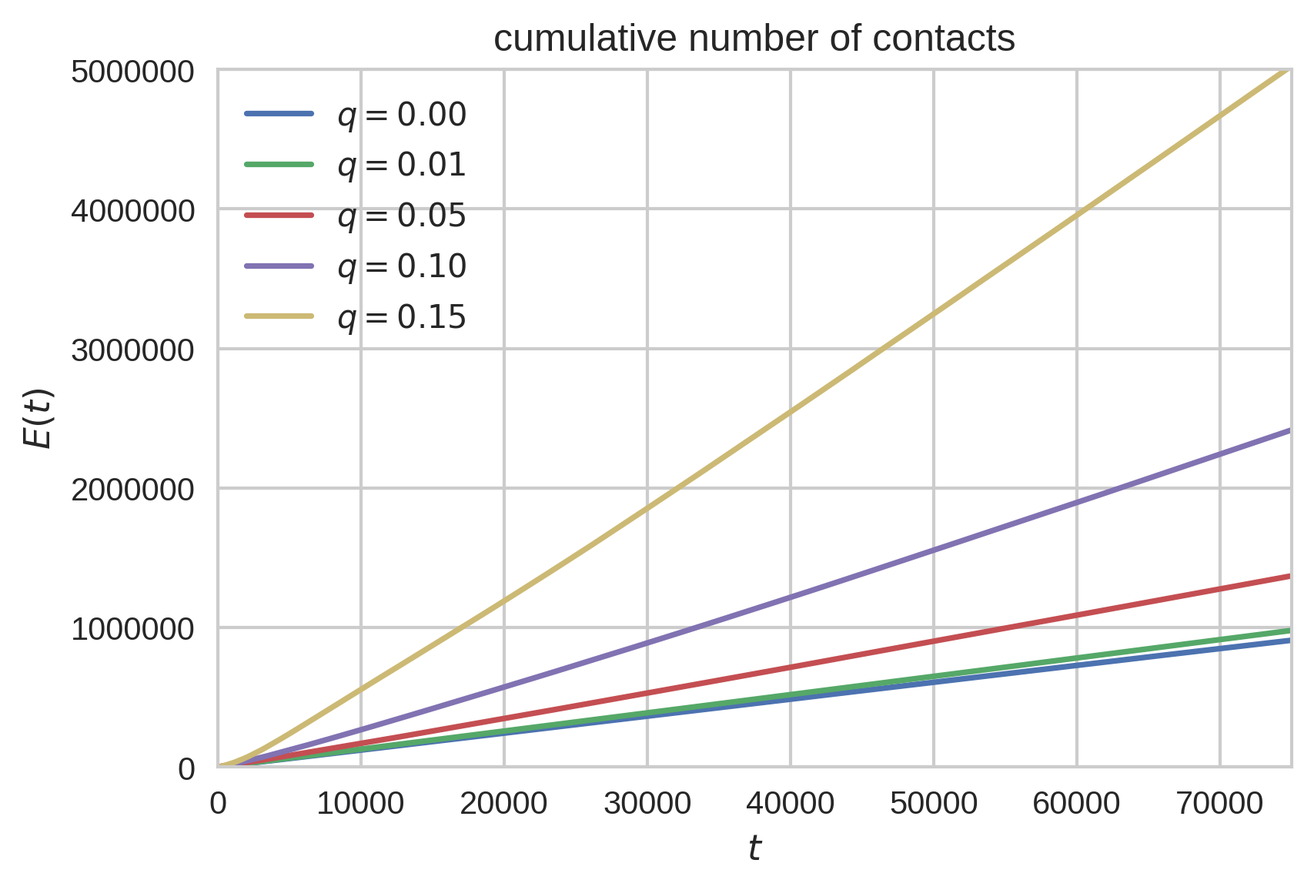
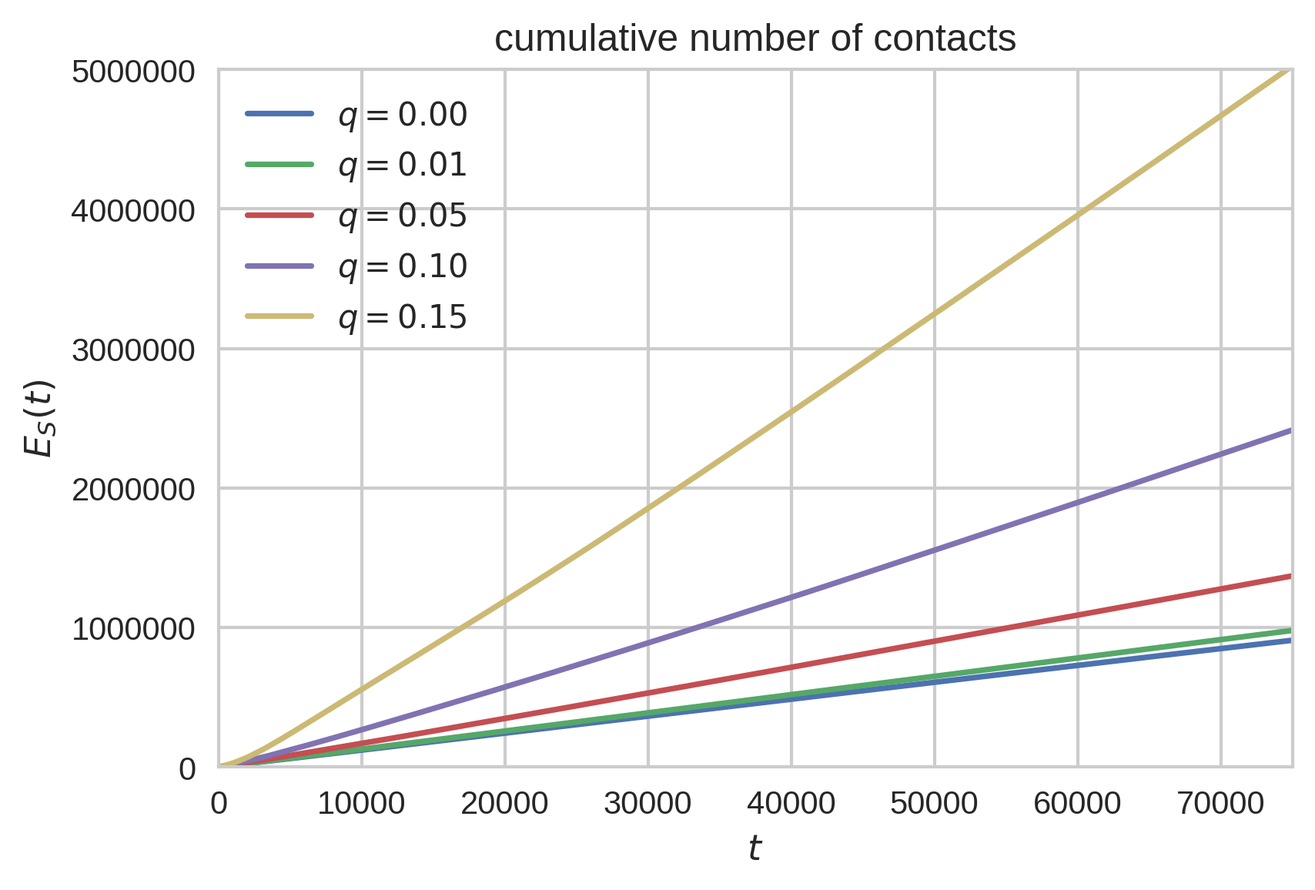
editing in the results chapter

diff --git a/results.tex b/results.tex
@@ -2,21 +2,23 @@
 \label{cha:results}
 
 
-This chapter discusses the basic findings of the analysis of the proposed peer influence model.
+This chapter discusses the basic findings of the analysis of the by us proposed peer influence model.
 All results were obtained from synthetic networks, with a fixed size of \( n = 5,000 \) nodes, which were generated over \( T = 75,000 \) iterations.
-The here presented properties of the time-varying networks were obtained by averaging the results of 40 independent runs, which is necessary due to the stochastic nature of the model.
-The model parameter responsible for the formation of the community structures are set to \( p_{\Delta} = 0.90 \) for the triadic closure probability, \( \delta = 1 \) for the link reinforcement constant, and \( p_{d} = \num{5e-05} \) for the node deletion probability for every experiment.
+The properties that we present were obtained by averaging the results of 40 independent runs, which is necessary due to the stochastic nature of the model.
+
+The model parameter responsible for the formation of the community structures was set to \( p_{\Delta} = 0.90 \) for the triadic closure probability, \( \delta = 1 \) for the link reinforcement constant, and \( p_{d} = \num{5e-05} \) for the node deletion probability for every experiment.
 Furthermore, the critical peer influence threshold was fixed to \( \theta = 0.10 \).
-This reflects the idea that only a relatively small number of active neighbors is sufficient to increase the activity of a node in a significant way.
+This reflects the idea that only a relatively small number of active neighbors is sufficient to affect the activity of a node in a significant way.
 
 The time-dependent topological properties of the integrated network, which are discussed in \cref{sec:integrated-network-properties}, are measured only for nodes that are part of the temporal network.
-This means that nodes, which were removed earlier due to the node deletion process do not influence the properties of the integrated network any more.
+This means that nodes, which were removed earlier due to the node deletion mechanism do not influence the properties of the integrated network any more.
 \Cref{sec:network-activity} contains an overview of the overall network activity with respect to different levels of peer influence.
 The effect of the peer influence mechanism on the inter-event time distribution in the network is examined in \cref{sec:inter-event-time-dists}.
 Furthermore, the distributions of the node degrees and tie strengths (i.e., the link weights) derived from the integrated networks are the subject of \cref{sec:weight-and-degree-distribution}.
 All these experiments are performed for different values for the maximum peer influence probability \( q \).
-However, the analysis performed in the last section of this chapter (\cref{sec:softmax-rescaling}) uses a fixed value for the peer influence level and discusses how different values for \( \beta \), the inverse temperature for the softmax weight rescaling, changes the peer influence effects in the network.
-The temporal networks, which are used in the experiments of the first four sections of this chapter, adopt the current average tie strength as temperature for the softmax weight rescaling.
+
+However, for the analysis performed in the last section of this chapter (\cref{sec:softmax-rescaling}) we use a fixed value for the peer influence level and discuss how different values for \( \beta \), the inverse temperature for the softmax weight rescaling, change the peer influence effects in the network.
+The generated temporal networks, which are used in the experiments of the first four sections of this chapter, adopt the current average tie strength as temperature for the softmax weight rescaling.
 Therefore, \( \beta \) is set to the to the reciprocal value of average weight in the integrated network in each iteration after the first one (i.e., \( \beta = 1 \) in the initial round to avoid division by zero, since no ties have been formed yet).
 
 
@@ -28,25 +30,27 @@ Therefore, \( \beta \) is set to the to the reciprocal value of average weight i
 \label{sec:integrated-network-properties}
 
 Not only the final integrated network of all 75,000 instantaneous networks and its properties are of great interest, but also how they evolve during the simulation.
-This allows to get a deeper understanding on how the model shapes the community structures in the network and the effects of the peer influence mechanism on it.
+This time-dependent view on the network allows us to get a deeper understanding on how the model shapes the communities and the effects of the peer influence mechanism on these structures.
 The integrated network is build in an iterative fashion to make these observations possible.
 A snapshot of the integrated network is taken after the newly formed ties are included and the weights of already established links are updated in every time step.
-Features like the average local clustering coefficient or the average weight of the ties are calculated for each of the 75,000 integrated network snapshots.
-This allows to examine how the topology and other measures change over time.
+Measures like the average local clustering coefficient or the average weight of the ties are calculated for each of the 75,000 integrated network snapshots.
+This allows us to examine how the topology and other measures change over time.
 
-The first, and most interesting, measure that can be investigated in this way is the average local clustering coefficient \( C(t) \).
-\Cref{fig:avg-local-cc-full} depicts the development of it over the course of the simulation for different levels of peer influence.
+The first, and most interesting, measure that we investigate is the average local clustering coefficient \( C(t) \).
+\Cref{fig:avg-local-cc-full} depicts the development of \( C(t) \) over the course of the simulation for different levels of peer influence.
 The graph of this function has a very distinctive pattern, which was already explained in the original work by \citet{Laurent2015}.
 The average clustering coefficient is very small in the first few hundred iterations, due to the sparsity of the integrated network.
 Almost all nodes are disconnected and the number of triangles, which have already formed is relatively small compared to the size of the network.
-However, \cref{fig:avg-local-cc-full} also shows that the clustering coefficient grows very fast until it reaches its maximum value after a short period of time.
+
+However, \cref{fig:avg-local-cc-full} also shows that the clustering coefficient grows very quickly until it reaches a maximum value after a short period of time.
 This rapid increase is caused by the cyclic closure mechanism of the model.
-Nodes that become active in this early stage first have to introduce some ties with nodes which are selected using the focal closure mechanism.
+Nodes that become active in this early stage first introduce some ties with selected nodes following the focal closure mechanism.
 This does not increase the average local clustering coefficient in a significant way, however, it establishes the egocentric networks.
 After the first triangles are closed, the first strong ties start to develop.
 These emerging strong ties amplify the biased local search of the triadic closure mechanism and result, on one hand, in more triangles, and on the other hand, in the reinforcement of already established triangles and the associated strong ties.
-This leads to a high local clustering in the established communities.
-However, weak ties are eventually also introduced to the network, due to the focal closure mechanism.
+This leads to a higher local clustering in the communities.
+
+Nevertheless, weak ties are eventually introduced to the network by the focal closure mechanism as well.
 They are rarely involved in the formation of new triangles, due to the bias towards strong ties, which contributes to the decrease of the average local clustering coefficient until the network reaches its stationary state.
 
 
@@ -57,15 +61,16 @@ They are rarely involved in the formation of new triangles, due to the bias towa
       {fig:avg-local-cc-full}
 
 
-The peer influence mechanism seems to influence the development of the local clustering in the beginning of the simulation significantly.
+The by us introduced peer influence mechanism seems to influence the development of the local clustering in the beginning of the simulation significantly.
 \Cref{fig:avg-local-cc-start} depicts the time-dependent average local clustering coefficient in the initial phase of the simulation (i.e., for the first 10,000 iterations) for a range of possible values for \( q \).
-It shows that the peak of \( C \) is reached faster for networks in which nodes are able to motivate their neighbors to some extend.
+It shows that the peak of \( C \) is reached faster for networks in which nodes are able to motivate their neighbors to a a larger extent.
+
 For instance, the network in which nodes are not able to influence their neighbors reaches it peak value for \( C \) after approximately 5,000 iterations, while the network with a maximum peer influence probability of \( q = 0.15 \) is more than 2,000 iterations faster.
 However, the effect only occurs for networks with \( q > 0.05 \) and the actual maximum value of the local clustering coefficient only increases slightly for higher levels of peer influence (c.f. \cref{tbl:max-clustering} for the precise figures).
-Furthermore, the proposed peer influence mechanism seems to have an positive effect on the development of the topological structures in the network by accelerating the process in the beginning.
+Nevertheless, the proposed peer influence mechanism seems to have a positive effect on the development of the topological structures in the network by accelerating the process in the beginning.
 
-The percentage of network activity, which is responsible for the reinforcement of ties in each iteration \( r(t) \) highlights this behavior as well.
-In the beginning most activity is spend on the formation of new ties and therefore building the topological structures of the network, but after a while more and more activity is focused on reinforcing existing ties, which leads to a drastic increase of \( r(t) \).
+The percentage of network activity, which is responsible for the reinforcement of ties in each iteration \( r(t) \), highlights the observed behavior as well.
+In the beginning most activity is spent on the formation of new ties, and therefore building the topological structures of the network, but after a while more and more activity is focused on reinforcing existing ties, which leads to a drastic increase of \( r(t) \).
 This is also emphasized by the time required to reach the point from which on more than half of the total activity is spend on reinforcement.
 This point is reached for the network with \( q = 0.15 \) after only 109 iterations.
 The network with no peer influence takes with 229 iterations about twice as long, indicating that peer influence may play an important role in the first few iterations that shape the topology of the network.
@@ -76,7 +81,7 @@ The network with no peer influence takes with 229 iterations about twice as long
 \begin{subfigure}[b]{0.485\textwidth}
   \includegraphics[width=\textwidth]{figures/avg-local-cc-start}
   \caption{}
-  \label{fig:avg-local-cc-start}
+\label{fig:avg-local-cc-start}
 \end{subfigure}
 ~
 \begin{subfigure}[b]{0.485\textwidth}
@@ -106,10 +111,10 @@ The network with no peer influence takes with 229 iterations about twice as long
 
 
  The share of reinforcement activity does converge to a value of over 90\% for all levels of peer influence after a short period of time, which highlights the domination of the reinforcement process.
-\Cref{fig:percentage-reinforced-ties} shows the plots of the percentage of reinforcement activity for the initial phase of the simulation and over all 75,000 iterations.
+\Cref{fig:percentage-reinforced-ties} shows the plots for the percentage of reinforcement activity over time in the initial phase of the simulation and over all 75,000 iterations.
 The plots of \( r(t) \) also reveal a link between the extent of reinforcement that is happening and the degree of peer influence.
 In the network with no peer influence effects is the proportion of reinforced to created ties on average 0.8961.
-The value increases to 0.9550 in the temporal network with a maximum peer influence probability of 15\%.
+The value increases to 0.9550 in the network with a maximum peer influence probability of 15\%.
 This can possibly be attributed to the overall increased activity within communities, due to the peer influence effects, and the associated bias towards local strong ties.
 With other words, the increased local activity overshadows the introduction of random links by low-activity and/or poorly integrated nodes.
 
@@ -119,46 +124,49 @@ With other words, the increased local activity overshadows the introduction of r
 \begin{subfigure}[b]{0.485\textwidth}
   \includegraphics[width=\textwidth]{figures/percentage-reinforced-ties-full}
   \caption{}
-  \label{fig:percentage-reinforced-ties-full}
+\label{fig:percentage-reinforced-ties-full}
 \end{subfigure}
 ~
 \begin{subfigure}[b]{0.485\textwidth}
   \includegraphics[width=\textwidth]{figures/percentage-reinforced-ties-beginning}
   \caption{}
-  \label{fig:percentage-reinforced-ties-beginning}
+\label{fig:percentage-reinforced-ties-beginning}
 \end{subfigure}
 
-\caption[Percentage of reinforced ties as function of time]{The percentage of reinforced ties \( r(t) = \sfrac{\#e_{r}(t)}{(\#e_{r}(t) + \#e_{c}(t))} \) for different levels of peer influence as a function of time, where \( \#e_{c}(t) \) and \( \#e_{r}(t) \) are the number of created ties and the number of reinforced ties in iteration \( t \), respectively. (\subref{fig:percentage-reinforced-ties-full}) shows the ratio over all 75,000 iterations and (\subref{fig:percentage-reinforced-ties-beginning}) highlights the behavior in the beginning. Both functions were smoothed using the rolling mean method to improve the quality of the plot.}
+\caption[Percentage of reinforced ties as function of time]{The percentage of reinforced ties \( r(t) = \sfrac{E_{r}(t)}{(E_{r}(t) + E_{c}(t))} \) for different levels of peer influence as a function of time, where \( E_{c}(t) \) and \( E_{r}(t) \) are the number of created ties and the number of reinforced ties in iteration \( t \), respectively. (\subref{fig:percentage-reinforced-ties-full}) shows the ratio over all 75,000 iterations and (\subref{fig:percentage-reinforced-ties-beginning}) highlights the behavior in the beginning. Both functions were smoothed using the rolling mean method to improve the quality of the plots.}
 \label{fig:percentage-reinforced-ties}
 \end{figure}
 
 
-The evolution of the average local clustering coefficient does dependent on the node deletion probability \( p_{d} \), since low-activity nodes, which are not removed fast enough, introduce additional weak ties in the network~\cite{Laurent2015}.
-However, as clearly evident in \cref{fig:avg-local-cc-full}, the possible level of peer influence does influence the clustering, and therefore the community structures of the network, as well.
+The evolution of the average local clustering coefficient does depend on the node deletion probability \( p_{d} \), since low-activity nodes, which are not removed fast enough, introduce additional weak ties in the network~\cite{Laurent2015}.
+However, as clearly evident in \cref{fig:avg-local-cc-full}, the level of peer influence does influence the clustering, and therefore the community structures of the network, as well.
 The more likely an activation due to peer influence gets, the smaller the stationary value for \( C \) becomes.
 \Cref{fig:avg-local-cc-end} highlights this effect well.
-This can possibly be explained in a similar way as the effect caused by the deletion probability.
-However, in this case not the decelerated removal of nodes is responsible for it, but the overall increase in the number of contacts between nodes.
+This observation can possibly be explained in a similar way as the effect caused by the deletion probability.
+
+However, in the case of existing peer influence, not the decelerated removal of nodes is responsible for the smaller stationary value of \( C \), but the overall increase in the number of contacts between nodes.
 The peer influence mechanism increases the activity in the network, especially in already formed communities (see \cref{sec:network-activity}), since active nodes motivate their neighbors to become active as well.
 The probability for the formation of a new tie is inverse proportional to the size of a nodes' egocentric network.
-Therefore, a active node, which is already fully integrated in its community, will reinforce one of its existing ties, or at least close a triangle, with high probability.
-However, given enough tries, such a node will eventually introduce new weak ties using the focal closure mechanism as well.
+Therefore, an active node, which is already fully integrated in its community, will reinforce one of its existing ties, or at least close a triangle, with high probability.
+However, given enough tries, such a node will eventually introduce new weak ties following the focal closure mechanism as well.
 Therefore, the opportunities for the introduction of random links by active nodes increases, which leads to a smaller average local clustering in general.
 
 Two additional measures of the integrated network, the average node degree and the average tie strength, were tracked over time for different magnitudes of peer influence as well.
 \Cref{fig:avg-weight-and-tie-strength} depicts the graphs for these two network properties as function of time.
 Both measures show a similar general behavior.
-The average degree and the average tie strength are not independent on the maximum peer influence probability in the network and do converge after the integrated network reaches its equilibrium.
+The average degree and the average tie strength are not independent of the maximum peer influence probability in the network and do converge after the integrated network reaches its equilibrium.
 The stationary values of both do increase with increasing values for \( q \) by about the same order of magnitude, which is reasonable since both measures are related to each other.
 The tie strength of a node can be seen as its weighted degree.
-However, the time it takes until they converge differs.
+
+However, the time it takes for them to converge differs.
 The average degree takes longer to reach its stationary value.
-This can be explained by the small probability for the creation of new ties after the egocentric networks have gained a certain size.
-Every new neighbor reduces the probability for the creation of new tie in the future significantly.
-The average tie strength does not suffer from this problem, due to the fast development of strong ties and the decreasing probability for the introduction of weak ties. \todo{sound explanation?}
-The direct effect of the peer influence mechanism on the average degree and average weight can be explained, similar to the average local clustering coefficient, by the additional activity in the temporal network.
+This can possibly be explained by the small probability for the creation of new ties after the egocentric networks have gained a certain size.
+Every new neighbor reduces the probability for the creation of a new tie in the future significantly.
+The average tie strength does not suffer from this problem, due to the fast development of strong ties and the decreasing probability for the introduction of weak ties.
+
+The direct effect of the peer influence mechanism on the average degree and average weight can be explained, similar to the effect on average local clustering coefficient, by the additional activity in the temporal network.
 Nodes are getting more opportunities to add additional neighbors and to strengthen their ties until they get removed.
-Note that the slightly different convergence behavior of the average tie strength for the high peer influence probability \( q = 0.15 \) cannot be explained fully at this point. It may be related to the by comparison significantly slower converge of the average degree, but it is ultimately left open for possible future studies. \todo{related work}
+Note that the slightly different convergence behavior of the average tie strength for the high peer influence probability \( q = 0.15 \) cannot be explained fully at this point. It may be related to the by comparison significantly slower convergence of the average degree, but it is ultimately left open for possible future studies.
 
 
 \begin{figure}[htbp]
@@ -166,7 +174,7 @@ Note that the slightly different convergence behavior of the average tie strengt
 \begin{subfigure}[b]{0.485\textwidth}
   \includegraphics[width=\textwidth]{figures/avg-degree}
   \caption{}
-  \label{fig:avg-degree}
+\label{fig:avg-degree}
 \end{subfigure}
 ~
 \begin{subfigure}[b]{0.485\textwidth}
@@ -189,35 +197,37 @@ Note that the slightly different convergence behavior of the average tie strengt
 
 
 One obvious implication of the proposed peer influence mechanism is an increase in the activity in the network.
-Nodes can become active by them self not only due to their intrinsic activity potential but also by the influence of their peers.
-The number of nodes that become active in iteration \( t \) entirely by them self is denoted as \( \#e_{a}(t) \), and the number that becomes active motivated by others is denoted as \( \#e_{p}(t) \).
-Therefore, the total number of contacts per iteration is \( \#e(t) = \#e_{a}(t) + \#e_{p}(t) \).
-The number of peer influenced activations in a networks with \( q = 0 \) is trivially \( \#e_{p}(t) = 0 \), and the number of self-activations can be approximated by \( \#e_{a}(t) \approx n \expval{a_{i}} \).
-For example, the approximated number of activations in a network with no peer influence effects and the prior specified parameters (\( \gamma = 2.7 \), \( \varepsilon = 0.001 \), and \( n = 5,000 \)) is \( \#e_{a}(t) \approx 12.05 \), which matches the observed figures.
+Nodes can become active by them self not only due to their intrinsic activity potential, but also by the influence of their peers.
+The number of nodes that become active in iteration \( t \) entirely by them self is denoted as \( E_{a}(t) \), and the number that becomes active motivated by others is denoted as \( E_{p}(t) \).
+Therefore, the total number of activations per iteration is \( E(t) = E_{a}(t) + E_{p}(t) \).
+
+The number of peer influenced activations in a networks with \( q = 0 \) is trivially \( E_{p}(t) = 0 \), and the number of self-activations can be approximated by \( E_{a}(t) \approx n \expval{a_{i}} \).
+For example, the approximated number of activations in a network with no peer influence effects and the prior specified parameters (\( \gamma = 2.7 \), \( \varepsilon = 0.001 \), and \( n = 5,000 \)) is \( E_{a}(t) \approx 12.05 \), which matches the observed figures.
 In fact, this number is roughly the same for all levels of peer influence, since the process of node self-activation due to the intrinsic activity potential is independent of the peer influence mechanism.
 
 
 \myfig{number-of-contacts}
       {width=0.75\textwidth}
-      {Time dependent number of activations \( \#e(t) \) in the network for different levels of peer influence \( q \). The graphs were smoothed using the rolling mean method to improve the visualization.}
-      {Time dependent number of activations}
+      {Time-dependent number of activations \( E(t) \) in the network for different levels of peer influence \( q \). The graphs were smoothed using the rolling mean method to improve the visualization.}
+      {Time-dependent number of activations}
       {fig:number-of-contacts}
 
 
 The total number of activations, and therefore the gain in activity due to the peer influence, is depicted in \cref{fig:number-of-contacts}.
-It shows that \( \#e(t) \) reaches a stationary value fast for small levels of peer influence.
+It shows that \( E(t) \) reaches its stationary value quickly for smaller levels of peer influence.
 However, the development of the total number of contacts per iteration is more complex for networks with a higher degree of peer influence.
 The first phase can be described as a rapid increase in the number of activations, which stops after approximately 8,000 iterations.
-After that the development of \( \#e(t) \) starts to relax and slow down.
-It even starts to decreases slightly in the network with a maximum peer influence probability of \( q = 0.15 \).
+After that, the development of \( E(t) \) starts to relax and slow down.
+The activity level even starts to decreases slightly in the network with a maximum peer influence probability of \( q = 0.15 \).
 Finally, the numbers slowly converge to their stationary values, which are reached after about 40,000 iterations.
 This is also supported by the evolution of the fraction of the peer influenced contacts per iterations \( i(t) \), which shows the same general behavior (c.f. \cref{fig:percentage-peer-influenced-activity}).
+
 This effect on the total activity in the network is possibly related to the development of the community structures and its implications on the peer influence mechanism.
-The stagnation (or even reduction) of the activity begins after the maximum value for the average local clustering coefficient was reached (c.f. \cref{fig:avg-local-cc-full} for details), which is caused by the introduction of weak ties.
+The stagnation (or even reduction) of the activity begins after a maximum value for the average local clustering coefficient was reached (cf. \cref{fig:avg-local-cc-full} for details), which is caused by the introduction of weak ties.
 These new ties are possibly responsible for the merging of communities in the network, which in turn reduces the effects of the peer influence mechanism.
 Inactive nodes in these newly merged communities may have a greater impact on the weighted fraction of active nodes that is required for a significant influence on nodes.
 This is could especially be true for weakly integrated nodes.
-However, a more detailed analysis has to be performed in the future to determine and verify the true effects, which are responsible for the observed behavior in the network activity for larger magnitudes of peer influence. \todo{future work}
+However, a more detailed analysis has to be performed in the future to determine and verify the true effects, which are responsible for the observed behavior in the network activity for larger magnitudes of peer influence.
 
 
 \begin{figure}[htbp]
@@ -225,7 +235,7 @@ However, a more detailed analysis has to be performed in the future to determine
 \begin{subfigure}[b]{0.485\textwidth}
   \includegraphics[width=\textwidth]{figures/percentage-influenced-activity}
  \caption{}
- \label{fig:percentage-peer-influenced-activity-full}
+\label{fig:percentage-peer-influenced-activity-full}
 \end{subfigure}
 ~
 \begin{subfigure}[b]{0.485\textwidth}
@@ -234,15 +244,15 @@ However, a more detailed analysis has to be performed in the future to determine
 \label{fig:percentage-peer-influenced-and-cumulative-activity}
 \end{subfigure}
 
-\caption[Percentage of peer influenced activity and cumulative activity as function of time]{Different views on the ramifications of the peer influence mechanism on the activity in the network. (\subref{fig:percentage-peer-influenced-activity-full}) depicts the evolution of the fraction of peer influenced activity \( i(t) = \sfrac{\#e_{p}(t)}{\#e(t)} \) over time for different levels of peer influence and  (\subref{fig:percentage-peer-influenced-and-cumulative-activity}) shows the aggregated number of contacts \( E(t) \) over all 75,000 iterations. The \( i(t) \) graphs were smoothed using the rolling mean method to improve the quality of the plot.}
+\caption[Percentage of peer influenced activity and cumulative activity as function of time]{Different views on the ramifications of the peer influence mechanism on the activity in the network. (\subref{fig:percentage-peer-influenced-activity-full}) depicts the evolution of the fraction of peer influenced activity \( i(t) = \sfrac{E_{p}(t)}{E(t)} \) over time for different levels of peer influence and  (\subref{fig:percentage-peer-influenced-and-cumulative-activity}) shows the aggregated number of contacts \( E_{S}(t) \) over all 75,000 iterations. The \( i(t) \) graphs were smoothed using the rolling mean method to improve the quality of the plot.}
 \label{fig:percentage-peer-influenced-activity}
 \end{figure}
 
 
 The effects of the peer influence mechanism on the activity within the time-varying network can be observed in other ways as well.
-For instance, \cref{fig:percentage-peer-influenced-and-cumulative-activity} depicts the cumulative number of contacts (i.e., \( E(t) = \sum_{i \leq t} \#e(i) \)), which highlights the quantity of additional activity that was caused by different degrees of peer influence mechanism over time.
-The distribution of the number of node activations in a certain time interval is another example.
-There is a shift in the bulk of the distributions, which indicates the increased probability for a larger number of activations of a node.
+For instance, \cref{fig:percentage-peer-influenced-and-cumulative-activity} depicts the cumulative number of contacts (i.e., \( E_{S}(t) = \sum_{i \leq t} E(i) \)), which highlights the quantity of additional activity that was caused by different degrees of peer influence mechanism over time.
+Another example for the impact of the newly introduced mechanism is the change in the distributions of the number activations in a given time interval.
+There is a shift in the bulk of the distributions observable, which indicates an increased probability for larger number of activations of a node.
 
 
 %% ========================================================================
@@ -418,7 +428,7 @@ This section highlights the ramification on the peer influence mechanism for the
 Note that the results for the scenarios are obtained from synthetic networks with a fixed maximum peer influence probability of \( q = 0.05 \).
 All other model parameter are set to the same values that are used in the other experiments as well.
 
-\myparagraph{\( \beta(t) = \langle w \rangle (t)^{-1} \)}
+\myparagraph{\( \beta(t) = \langle w \rangle {(t)}^{-1} \)}
 The temperature for the softmax rescaling is set to the average tie strength in the snapshot of integrated network at time \( t \).
 This scenario is used for all other previously discussed experiments in this chapter.
 \Cref{sec:integrated-network-properties} shows that the average tie strength does increase over time until it reaches its stationary value.
@@ -452,7 +462,7 @@ This small decrease is not observable in the other two scenarios and can possibl
 \begin{subfigure}[b]{0.485\textwidth}
   \includegraphics[width=\textwidth]{figures/number-of-contacts-beta}
   \caption{}
-  \label{fig:number-of-contacts-beta}
+\label{fig:number-of-contacts-beta}
 \end{subfigure}
 ~
 \begin{subfigure}[b]{0.485\textwidth}

diff --git a/related-work.tex b/related-work.tex
@@ -541,7 +541,7 @@ The process yields a network that consists of \( m_{0} + t \) nodes and \( m t \
 
 It can be shown using different methods (e.g., continuum theory, master equations, or numerical), that the node degrees follow a power-law distribution with a degree exponent of \( \gamma = 3 \).
 Furthermore, asymptotically does \( \gamma \) not depend on \( m \), the number of links that are generated in each iteration.
-The degree distribution is also (asymptotically) independent on the time, and therefore on the size of the network.
+The degree distribution is also (asymptotically) independent of the time, and therefore on the size of the network.
 This property of the model reflects the fact that there exists real-world networks of different sizes with power-law degree distributions.
 
 However, like the ER model, the BA model has its shortcomings as well.
